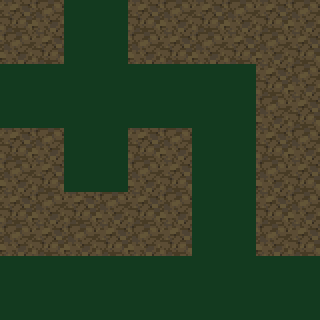
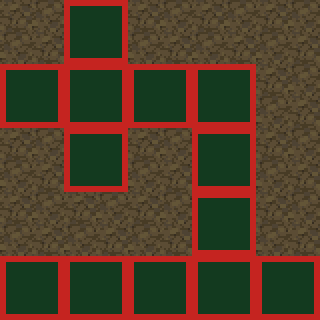
trololo

Changed region(s): [[0.0, 0.0, 1.0, 1.0]]

diff --git a/sections/modules/generating_levels/generating_levels.tex b/sections/modules/generating_levels/generating_levels.tex
@@ -306,14 +306,14 @@ gameobjects assigned a collide-able component in the gameworld. The first naive
 implementation we attempted was to place a square collider (regular
 \texttt{Collider2D}) for each wall tile.
 The positions for these colliders is shown as red dots in
-figure~\ref{fig:wall_vertices}.
+figure~\ref{fig:wall_with_vertices}.
 This resulted in the unfortunate behaviour that collisions from rigid bodies -
 the player and enemies - behaved unreliable and rigid bodies would ``bounce off''
 the walls whenever they would be ``between'' two collider sections.
 \\
 Our next idea was to find offsets for countour vertices for each tile, and
 placing \texttt{Polygon Collider2D}, contour vertices shown as blue in
-figure~\ref{fig:wall_vertices}. However this reveals a problem: the resulting
+figure~\ref{fig:wall_with_vertices}. However this reveals a problem: the resulting
 polygon we are interrested in is concave. This means that we cannot
 \textit{easily} construct the polygon from only knowing the vertices. Our
 solution was to use an adaptation of \textit{flood fill} to first find
@@ -324,4 +324,17 @@ necessary, almost eliminates the mentioned problem of unreliable behavior for
 rigid bodies colliding with walls. An \textit{optimal} solution would be to
 construct a concave polygon from the vertices, which would require finding all
 countour vertices \textit{and} the order in which they should connected when
-constructing the polygon. The result of our \textit{flood fill} adaptation
+constructing the polygon. The result of our \textit{flood fill} approach can be
+seen in figure~\ref{fig:wall_with_convex}.
+
+\begin{figure}[H]
+    \centering
+    \includegraphics[width=1\textwidth]{figures/generating_levels/wall_with_vertices.png}
+    \caption{Finding contour vertices}\label{fig:wall_with_vertices} 
+\end{figure}
+
+\begin{figure}[H]
+    \centering
+    \includegraphics[width=1\textwidth]{figures/generating_levels/wall_with_convex.png}
+    \caption{Finding connected concave polygons using flood fill}\label{fig:wall_with_convex} 
+\end{figure}
